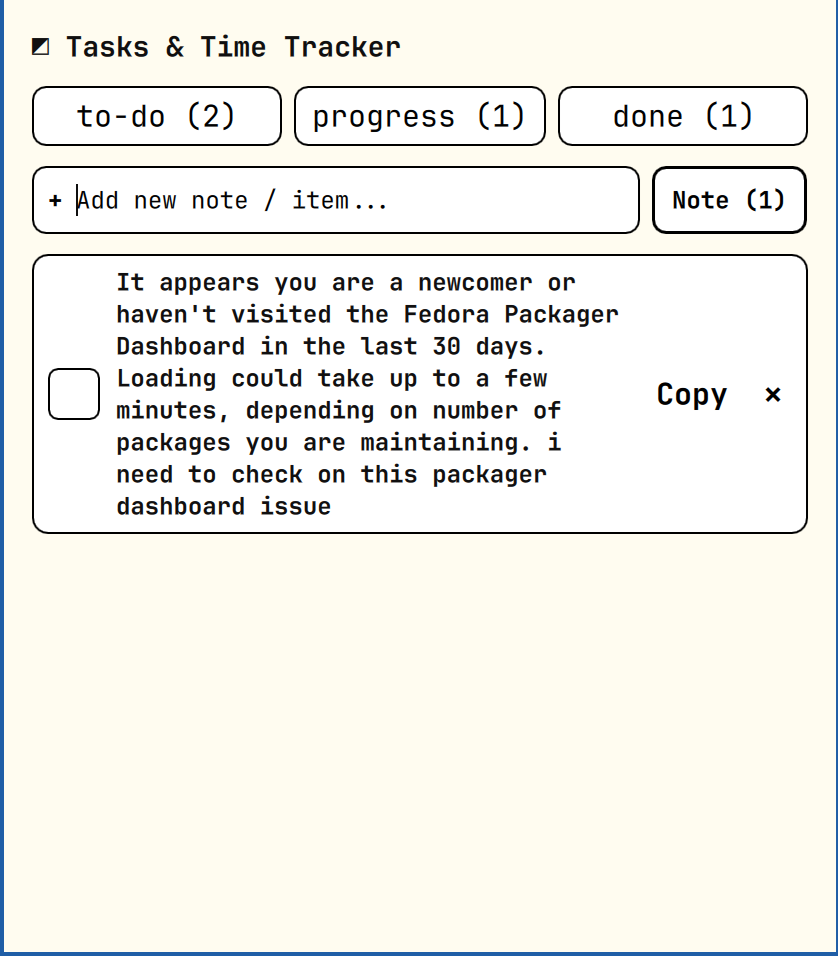
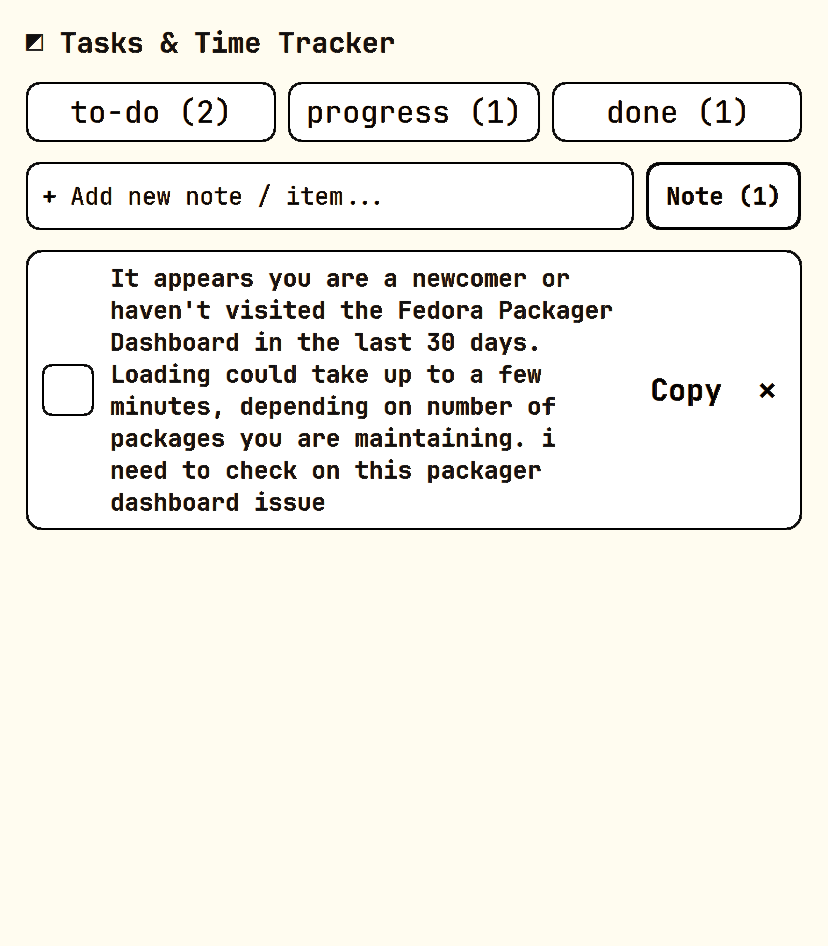
feat: unified clean theme styling and add side-by-side preview images

Changed region(s): [[0.0, 0.0, 1.0, 1.0], [0.785, 0.3985, 0.8756, 0.4292]]

diff --git a/Panel.qml b/Panel.qml
@@ -449,21 +449,21 @@ Item {
         Layout.fillWidth: true
         spacing: Style.space(6)
 
-        // To-Do Tab
+        // To-Do Tab (Neutral Charcoal styling)
         Rectangle {
           Layout.fillWidth: true
           Layout.preferredWidth: 0
           Layout.minimumWidth: 0
           height: Style.space(30)
           radius: Style.space(7)
-          color: root.activeTab === "todo" ? Style.tint(Color.blue, 0.18) : Style.tint(root.foreground, 0.04)
-          border.color: root.activeTab === "todo" ? Color.blue : Style.tint(root.foreground, 0.15)
+          color: root.activeTab === "todo" ? Style.tint(root.foreground, 0.08) : Style.tint(root.foreground, 0.03)
+          border.color: root.activeTab === "todo" ? root.foreground : Style.tint(root.foreground, 0.15)
           border.width: root.activeTab === "todo" ? 1.5 : 1
 
           Text {
             anchors.centerIn: parent
             text: "to-do (" + (root.allTasks || []).filter(t => t.status === "todo").length + ")"
-            color: root.activeTab === "todo" ? Color.blue : Style.tint(root.foreground, 0.7)
+            color: root.activeTab === "todo" ? root.foreground : Style.tint(root.foreground, 0.7)
             font.family: root.fontFamily
             font.bold: root.activeTab === "todo"
             font.pixelSize: Style.font.small
@@ -482,7 +482,7 @@ Item {
           Layout.minimumWidth: 0
           height: Style.space(30)
           radius: Style.space(7)
-          color: root.activeTab === "in_progress" ? Style.tint(Color.yellow, 0.18) : Style.tint(root.foreground, 0.04)
+          color: root.activeTab === "in_progress" ? Style.tint(Color.yellow, 0.18) : Style.tint(root.foreground, 0.03)
           border.color: root.activeTab === "in_progress" ? Color.yellow : Style.tint(root.foreground, 0.15)
           border.width: root.activeTab === "in_progress" ? 1.5 : 1
 
@@ -508,7 +508,7 @@ Item {
           Layout.minimumWidth: 0
           height: Style.space(30)
           radius: Style.space(7)
-          color: root.activeTab === "done" ? Style.tint(Color.green, 0.18) : Style.tint(root.foreground, 0.04)
+          color: root.activeTab === "done" ? Style.tint(Color.green, 0.18) : Style.tint(root.foreground, 0.03)
           border.color: root.activeTab === "done" ? Color.green : Style.tint(root.foreground, 0.15)
           border.width: root.activeTab === "done" ? 1.5 : 1
 
@@ -539,7 +539,7 @@ Item {
           height: Style.space(34)
           radius: Style.space(7)
           color: Style.tint(root.foreground, 0.03)
-          border.color: itemInput.activeFocus ? (root.activeTab === "todo" ? Color.blue : (root.activeTab === "in_progress" ? Color.yellow : (root.activeTab === "done" ? Color.green : Color.blue))) : Style.tint(root.foreground, 0.15)
+          border.color: itemInput.activeFocus ? root.foreground : Style.tint(root.foreground, 0.15)
           border.width: 1
 
           RowLayout {
@@ -586,8 +586,8 @@ Item {
         Rectangle {
           height: Style.space(34)
           radius: Style.space(7)
-          color: root.activeTab === "notes" ? Style.tint(Color.blue, 0.18) : Style.tint(root.foreground, 0.04)
-          border.color: root.activeTab === "notes" ? Color.blue : Style.tint(root.foreground, 0.15)
+          color: root.activeTab === "notes" ? Style.tint(root.foreground, 0.08) : Style.tint(root.foreground, 0.03)
+          border.color: root.activeTab === "notes" ? root.foreground : Style.tint(root.foreground, 0.15)
           border.width: root.activeTab === "notes" ? 1.5 : 1
           Layout.preferredWidth: headerNoteLabel.implicitWidth + Style.space(20)
 
@@ -595,7 +595,7 @@ Item {
             id: headerNoteLabel
             anchors.centerIn: parent
             text: "Note (" + (root.allNotes || []).length + ")"
-            color: root.activeTab === "notes" ? Color.blue : Style.tint(root.foreground, 0.8)
+            color: root.activeTab === "notes" ? root.foreground : Style.tint(root.foreground, 0.8)
             font.family: root.fontFamily
             font.pixelSize: Style.font.body
             font.bold: root.activeTab === "notes"
@@ -665,10 +665,10 @@ Item {
               Layout.alignment: Qt.AlignVCenter
               color: isNoteItem
                 ? (isNoteDone ? Style.tint(Color.green, 0.18) : Style.tint(root.foreground, 0.06))
-                : (itemObj.status === "done" ? Style.tint(Color.blue, 0.15) : (isTaskRunning ? Style.tint(Color.green, 0.2) : Style.tint(root.foreground, 0.06)))
+                : (itemObj.status === "done" ? Style.tint(root.foreground, 0.08) : (isTaskRunning ? Style.tint(Color.green, 0.2) : Style.tint(root.foreground, 0.06)))
               border.color: isNoteItem
                 ? (isNoteDone ? Color.green : Style.tint(root.foreground, 0.2))
-                : (itemObj.status === "done" ? Color.blue : (isTaskRunning ? Color.green : Style.tint(root.foreground, 0.2)))
+                : (itemObj.status === "done" ? root.foreground : (isTaskRunning ? Color.green : Style.tint(root.foreground, 0.2)))
               border.width: 1
 
               Text {
@@ -678,7 +678,7 @@ Item {
                   : (itemObj.status === "done" ? "↺" : (isTaskRunning ? "⏸" : "▶"))
                 color: isNoteItem
                   ? (isNoteDone ? Color.green : root.foreground)
-                  : (itemObj.status === "done" ? Color.blue : (isTaskRunning ? Color.green : root.foreground))
+                  : (itemObj.status === "done" ? root.foreground : (isTaskRunning ? Color.green : root.foreground))
                 font.family: root.fontFamily
                 font.bold: true
                 font.pixelSize: Style.font.body
